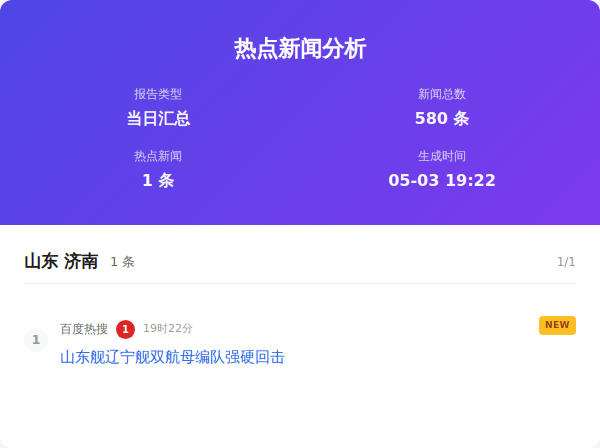
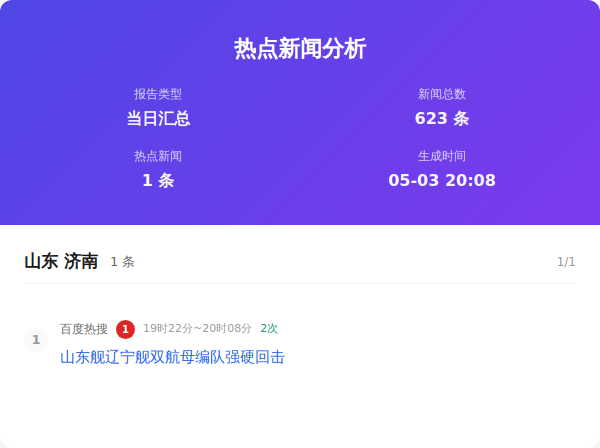
Auto update by GitHub Actions at Sun May  3 20:08:59 CST 2026

diff --git a/index.html b/index.html
@@ -357,7 +357,7 @@
                     </div>
                     <div class="info-item">
                         <span class="info-label">新闻总数</span>
-                        <span class="info-value">580 条</span>
+                        <span class="info-value">623 条</span>
                     </div>
                     <div class="info-item">
                         <span class="info-label">热点新闻</span>
@@ -365,7 +365,7 @@
                     </div>
                     <div class="info-item">
                         <span class="info-label">生成时间</span>
-                        <span class="info-value">05-03 19:22</span>
+                        <span class="info-value">05-03 20:08</span>
                     </div>
                 </div>
             </div>
@@ -379,11 +379,11 @@
                         </div>
                         <div class="word-index">1/1</div>
                     </div>
-                    <div class="news-item new">
+                    <div class="news-item ">
                         <div class="news-number">1</div>
                         <div class="news-content">
                             <div class="news-header">
-                                <span class="source-name">百度热搜</span><span class="rank-num top">1</span><span class="time-info">19时22分</span>
+                                <span class="source-name">百度热搜</span><span class="rank-num top">1</span><span class="time-info">19时22分~20时08分</span><span class="count-info">2次</span>
                             </div>
                             <div class="news-title"><a href="https://www.baidu.com/s?wd=%E5%B1%B1%E4%B8%9C%E8%88%B0%E8%BE%BD%E5%AE%81%E8%88%B0%E5%8F%8C%E8%88%AA%E6%AF%8D%E7%BC%96%E9%98%9F%E5%BC%BA%E7%A1%AC%E5%9B%9E%E5%87%BB" target="_blank" class="news-link">山东舰辽宁舰双航母编队强硬回击</a>
                             </div>

diff --git a/output/2026年05月03日/html/当日汇总.html b/output/2026年05月03日/html/当日汇总.html
@@ -357,7 +357,7 @@
                     </div>
                     <div class="info-item">
                         <span class="info-label">新闻总数</span>
-                        <span class="info-value">580 条</span>
+                        <span class="info-value">623 条</span>
                     </div>
                     <div class="info-item">
                         <span class="info-label">热点新闻</span>
@@ -365,7 +365,7 @@
                     </div>
                     <div class="info-item">
                         <span class="info-label">生成时间</span>
-                        <span class="info-value">05-03 19:22</span>
+                        <span class="info-value">05-03 20:08</span>
                     </div>
                 </div>
             </div>
@@ -379,11 +379,11 @@
                         </div>
                         <div class="word-index">1/1</div>
                     </div>
-                    <div class="news-item new">
+                    <div class="news-item ">
                         <div class="news-number">1</div>
                         <div class="news-content">
                             <div class="news-header">
-                                <span class="source-name">百度热搜</span><span class="rank-num top">1</span><span class="time-info">19时22分</span>
+                                <span class="source-name">百度热搜</span><span class="rank-num top">1</span><span class="time-info">19时22分~20时08分</span><span class="count-info">2次</span>
                             </div>
                             <div class="news-title"><a href="https://www.baidu.com/s?wd=%E5%B1%B1%E4%B8%9C%E8%88%B0%E8%BE%BD%E5%AE%81%E8%88%B0%E5%8F%8C%E8%88%AA%E6%AF%8D%E7%BC%96%E9%98%9F%E5%BC%BA%E7%A1%AC%E5%9B%9E%E5%87%BB" target="_blank" class="news-link">山东舰辽宁舰双航母编队强硬回击</a>
                             </div>